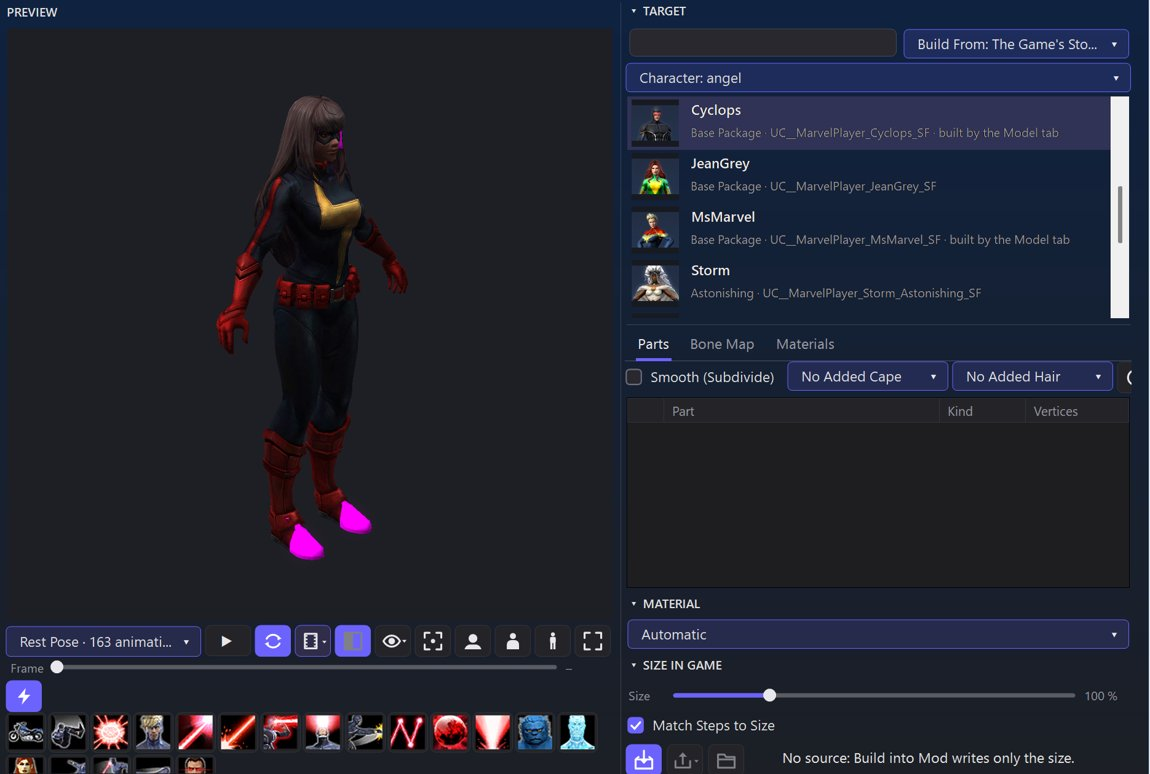
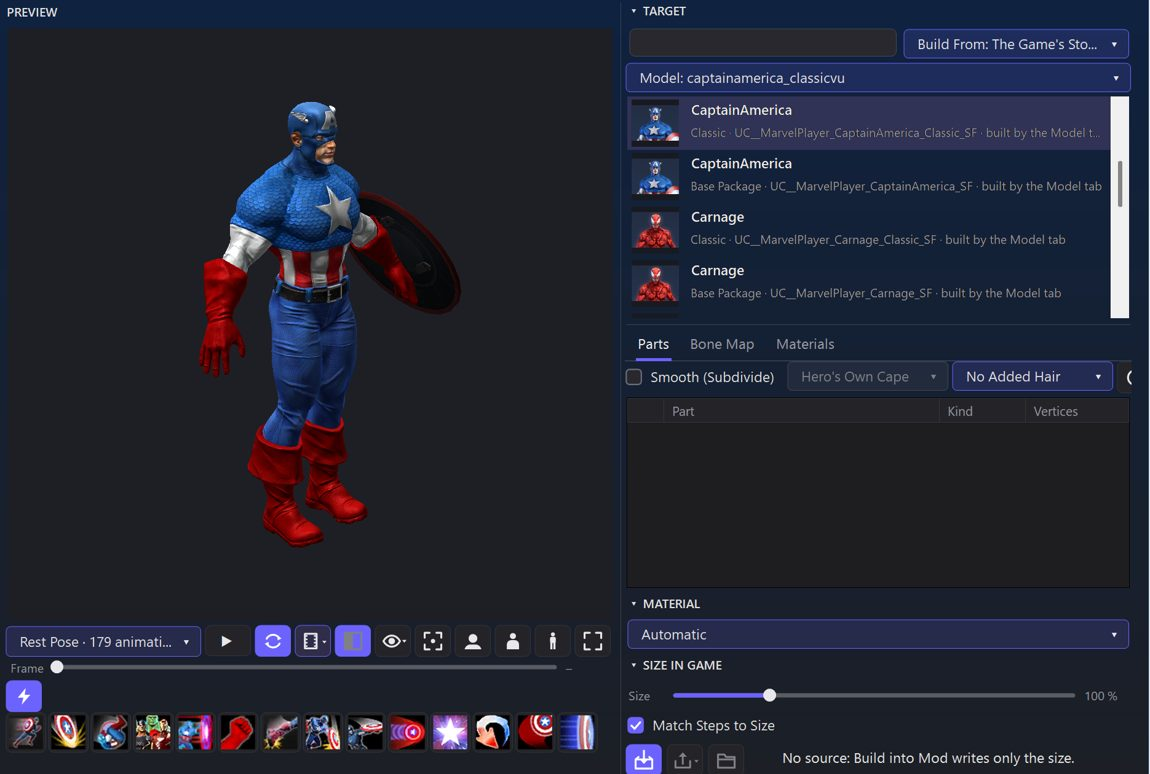
MHO Extended Mod Manager 0.37.219: What's New notice, prop walkthrough, Model ▾ screenshots
- What's New: weapons and shields as Model targets, costumes that show their hero's model, default parts, Models Folder.
- Manual: "Swap a Costume's Weapon or Shield" walkthrough with a screenshot; the Model ▾ figure retaken (Cap Classic: Cap and his shield).

diff --git a/MhoExtendedModManager/Manual/manual.html b/MhoExtendedModManager/Manual/manual.html
@@ -153,6 +153,7 @@ function mhoNext(dir) {
 <li><a href="#w-model">Put Your Own Model on a Costume</a></li>
 <li><a href="#w-size">Make a Character Bigger or Smaller</a></li>
 <li><a href="#w-npc">Put a Model on an NPC, Enemy or Team-Up</a></li>
+<li><a href="#w-prop">Swap a Costume's Weapon or Shield</a></li>
 <li><a href="#w-own">Recolor or Hide an NPC's or Team-Up's Effects</a></li>
 <li><a href="#w-blender">Edit the Model, an Animation or a Texture in Blender</a></li>
 <li><a href="#w-textures">Edit a Model's Textures in Your Image Editor</a></li>
@@ -313,8 +314,20 @@ function mhoNext(dir) {
 </ol>
 <figure><img src="img/remove-target.jpg" alt="Removing a target that is one of the mod's own packages: put the mod's copy back, or take the package out of the mod."><figcaption>Removing a target that is one of the mod's own packages: put the mod's copy back, or take the package out of the mod.</figcaption></figure>
 <p>Team-ups and many NPCs store their animations so that they set every bone's position; the build changes them to work like a hero's, so the new model keeps its own shape (the log's <code>anim:</code> line).</p>
-<figure><img src="img/editor-model-character.jpg" alt="Cyclops's base package as the target: it holds Cyclops, Angel and Wolverine's bike, and Model ▾ has Angel picked, so the model is built onto Angel."><figcaption>Cyclops's base package as the target: it holds Cyclops, Angel and Wolverine's bike, and Model ▾ has Angel picked, so the model is built onto Angel.</figcaption></figure>
+<figure><img src="img/editor-model-character.jpg" alt="Captain America Classic's package holds Cap and his shield: Model ▾ picks which one a build replaces (here Cap; the shield is marked Prop in the list)."><figcaption>Captain America Classic's package holds Cap and his shield: Model ▾ picks which one a build replaces (here Cap; the shield is marked Prop in the list).</figcaption></figure>
 <figure><img src="img/editor-model-npc.jpg" alt="The Model tab with an enemy as the target (Clone Cyclops from Enemies and Bosses) and the Size in Game slider."><figcaption>The Model tab with an enemy as the target (Clone Cyclops from Enemies and Bosses) and the Size in Game slider.</figcaption></figure>
+</div>
+
+<div class="walk">
+<h3 id="w-prop">Swap a Costume's Weapon or Shield</h3>
+<ol class="steps">
+<li>On the Model tab, pick the costume (or hero) package under <b>Target</b>, and an MFF character that carries the weapon under <b>Source</b> (US Agent for his shield).</li>
+<li>Open <b>Model ▾</b> above the Target list and pick the prop: props are marked <b>Prop</b> (<code>captainamerica_shield_avengers · Prop</code>).</li>
+<li>Under <b>Parts</b>, the part most like the prop is ticked on its own (US Agent's shield). Tick another part to use it instead.</li>
+<li><b>Build into Mod</b>. The part is laid over the game's prop: centered, turned onto its axes, scaled to its size and held on the same bone. A round shield can come out turned in its own plane.</li>
+<li>To give the character a new body too, pick it under Model ▾ and build again: each build keeps the other's. Then Save Changes and Apply Changes; the Mods tab's 3D preview shows the prop in the character's hands with Props on.</li>
+</ol>
+<figure><img src="img/editor-model-prop.jpg" alt="Captain America's shield picked under Model ▾ (marked Prop), with only US Agent's shield ticked under Parts: the preview shows it in place of Cap's."><figcaption>Captain America's shield picked under Model ▾ (marked Prop), with only US Agent's shield ticked under Parts: the preview shows it in place of Cap's.</figcaption></figure>
 </div>
 
 <div class="walk">

diff --git a/MhoExtendedModManager/WhatsNew.cs b/MhoExtendedModManager/WhatsNew.cs
@@ -27,7 +27,17 @@ static class WhatsNew
     const string Discord1 = "https://discord.com/channels/1130836076332863580/1553841408471867442";
     const string Discord2 = "https://discord.com/channels/1142968916205903942/1553842238969352263";
 
-    public static IReadOnlyList<Notice> Notices => ModelTabReleased ? [AdjustColors(), TidyData(), NexusSignIn(), PhoenixEffects(), AnyTarget(), TextureManager(), HistorySmall(), PowersPlaced(), ScreenFit(), FormatsAndEditors(), SizeAndNpcs(), ModelNotice(), SingleColors(), Editor(PowersAndAnimations)] : [SingleColors(), Editor(PowersAndAnimations)];
+    public static IReadOnlyList<Notice> Notices => ModelTabReleased ? [PropTargets(), AdjustColors(), TidyData(), NexusSignIn(), PhoenixEffects(), AnyTarget(), TextureManager(), HistorySmall(), PowersPlaced(), ScreenFit(), FormatsAndEditors(), SizeAndNpcs(), ModelNotice(), SingleColors(), Editor(PowersAndAnimations)] : [SingleColors(), Editor(PowersAndAnimations)];
+
+    /// <summary>0.37.219 (Kurt, 2026-10-08): weapons and shields as Model targets, costumes that show their hero's model,
+    /// better default parts, the Models Folder.</summary>
+    static Notice PropTargets() => new(
+        "0.37.219-prop-targets", "0.37.219",
+        "Model tab: swap a costume's weapon or shield. Model ▾ (was Character ▾) marks a package's props: pick Captain America's shield and an MFF character's shield, hammer or gun takes its place, laid over the game's prop and held where the game holds it. Body and prop can both be built into one package." + nl + nl +
+        "Costumes that show their hero's model instead of one of their own (Captain America Avengers, Carnage Classic, Venom Classic, Thing Classic and 16 more) work as targets now: the costume gets its own copy, so the hero's other costumes stay as they are." + nl + nl +
+        "MFF characters start with their own body ticked: weapons on weapon bones (Red She-Hulk, Blade), She-Hulk's book, horses and other things that move on their own are props, unticked. Settings → Model → Change Models Folder sets where Browse for a Model opens." + nl + nl +
+        "If something doesn't work, please report it on Discord: [MHServerEmu Development](" + Discord1 + ") or [TAHITI](" + Discord2 + ").",
+        "w-prop");
 
     /// <summary>0.37.216 (Kurt, 2026-10-07): Adjust Colors, gentler normal maps, building over an earlier build.</summary>
     static Notice AdjustColors() => new(
